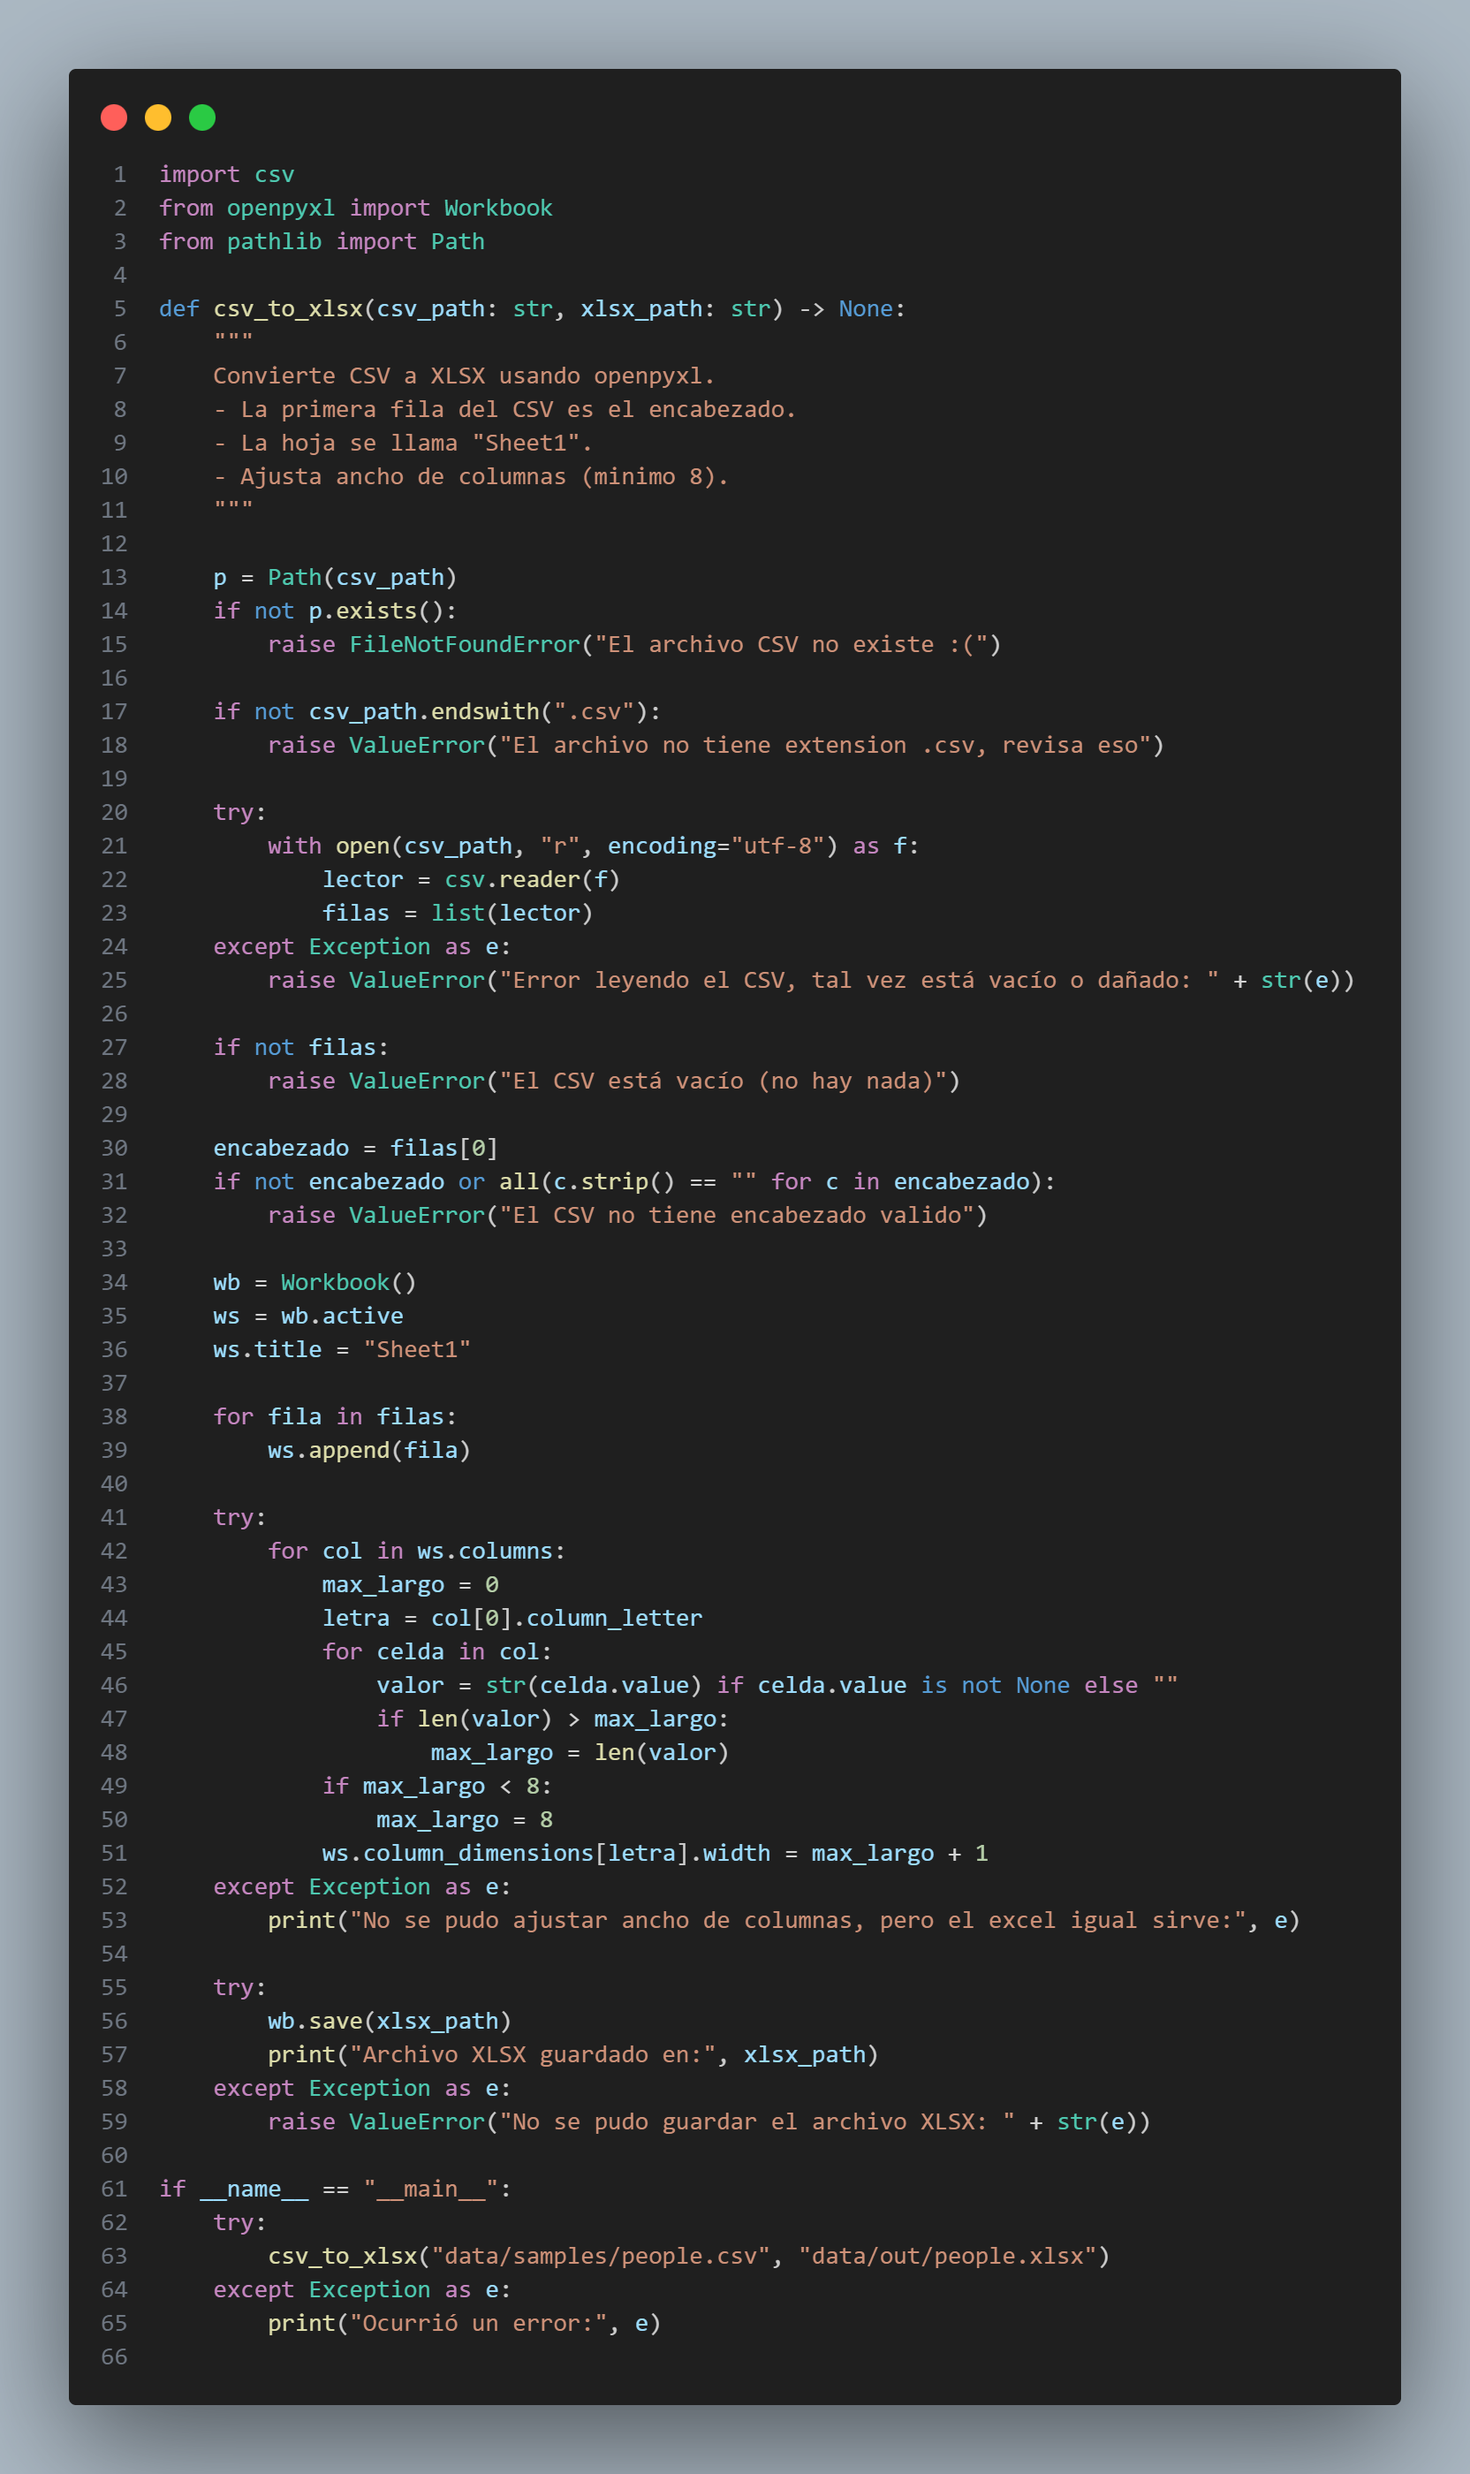
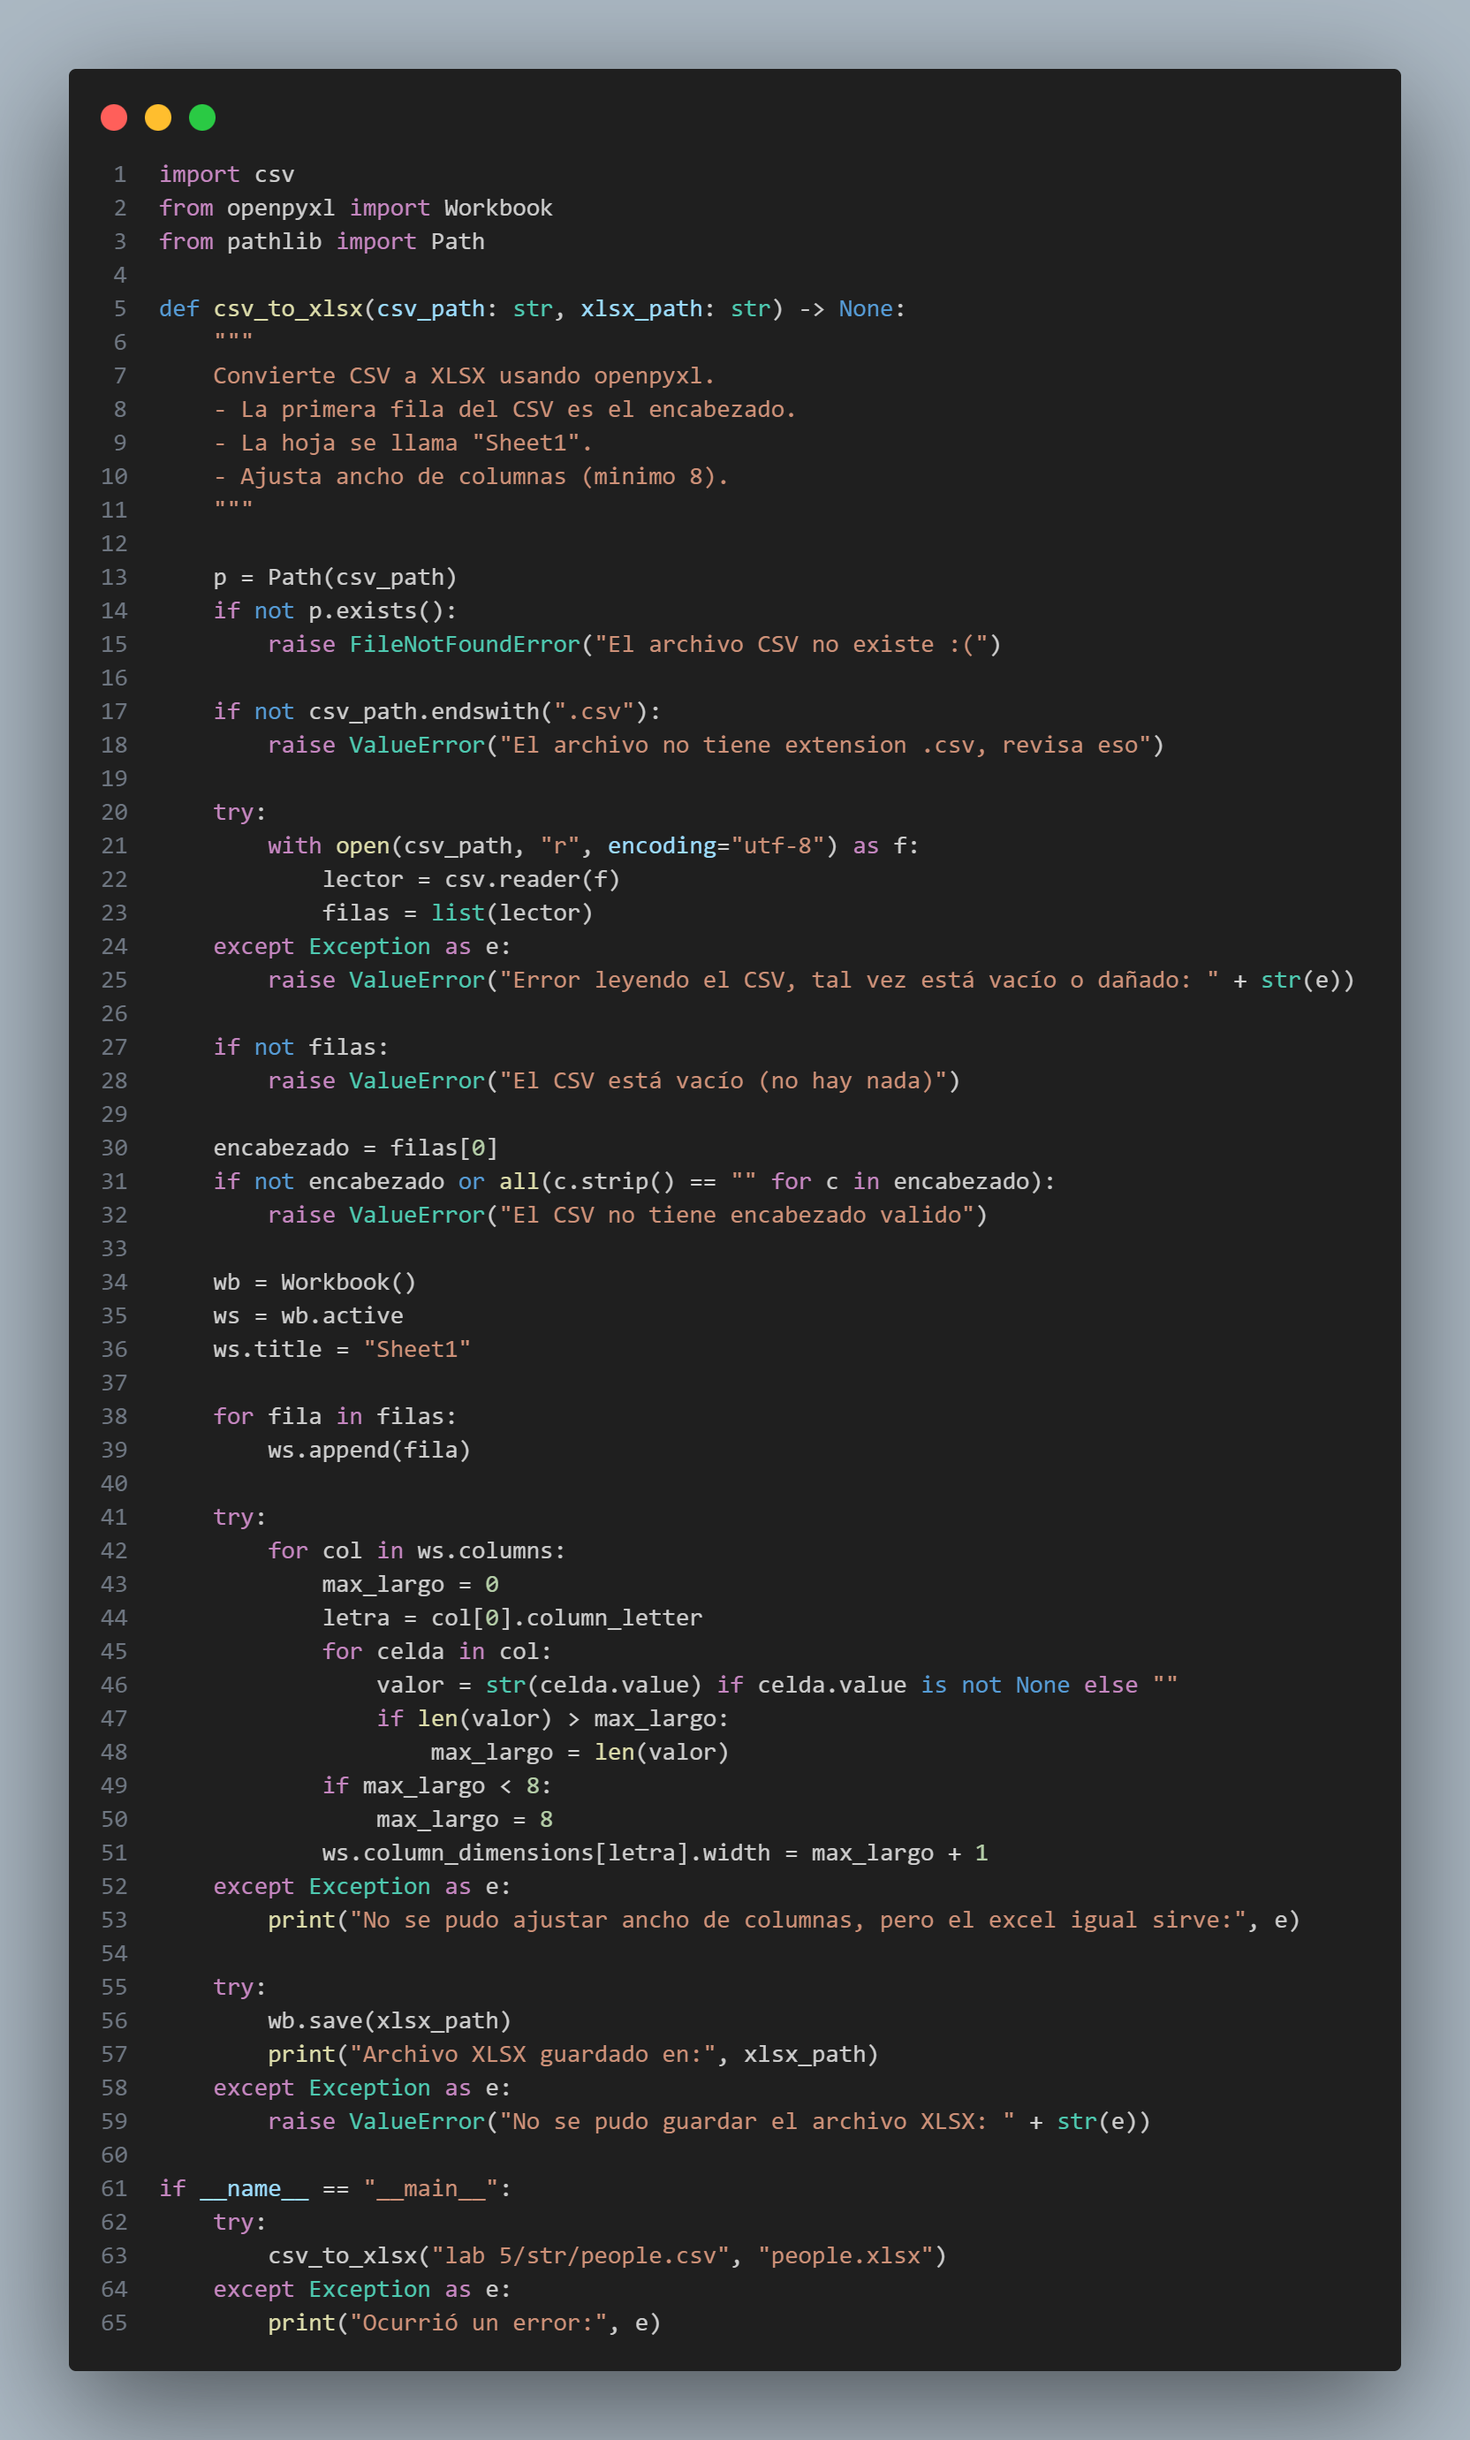
correcion laboratorios

diff --git a/Labs/lab 2/scr/задание_1.1.py b/Labs/lab 2/scr/задание_1.1.py
@@ -8,7 +8,7 @@ def flatten(mat:list[list | tuple])-> list:
     result=[]
     for row in mat:
         if not isinstance(row, (list, tuple)):
-            raise TypeError("строка не является ни списком, ни кортежем")
+            raise TypeError("строка не является ни списком, ни кортежем") 
         result.extend(row)
     return result 
 print(min_max([3, -1, 5, 5, 0]))

diff --git a/Labs/lab 5/str/Tarea.B.py b/Labs/lab 5/str/Tarea.B.py
@@ -60,6 +60,6 @@ def csv_to_xlsx(csv_path: str, xlsx_path: str) -> None:
 
 if __name__ == "__main__":
     try:
-        csv_to_xlsx("data/samples/people.csv", "data/out/people.xlsx")
+        csv_to_xlsx("lab 5/str/people.csv", "people.xlsx")
     except Exception as e:
         print("Ocurrió un error:", e)
